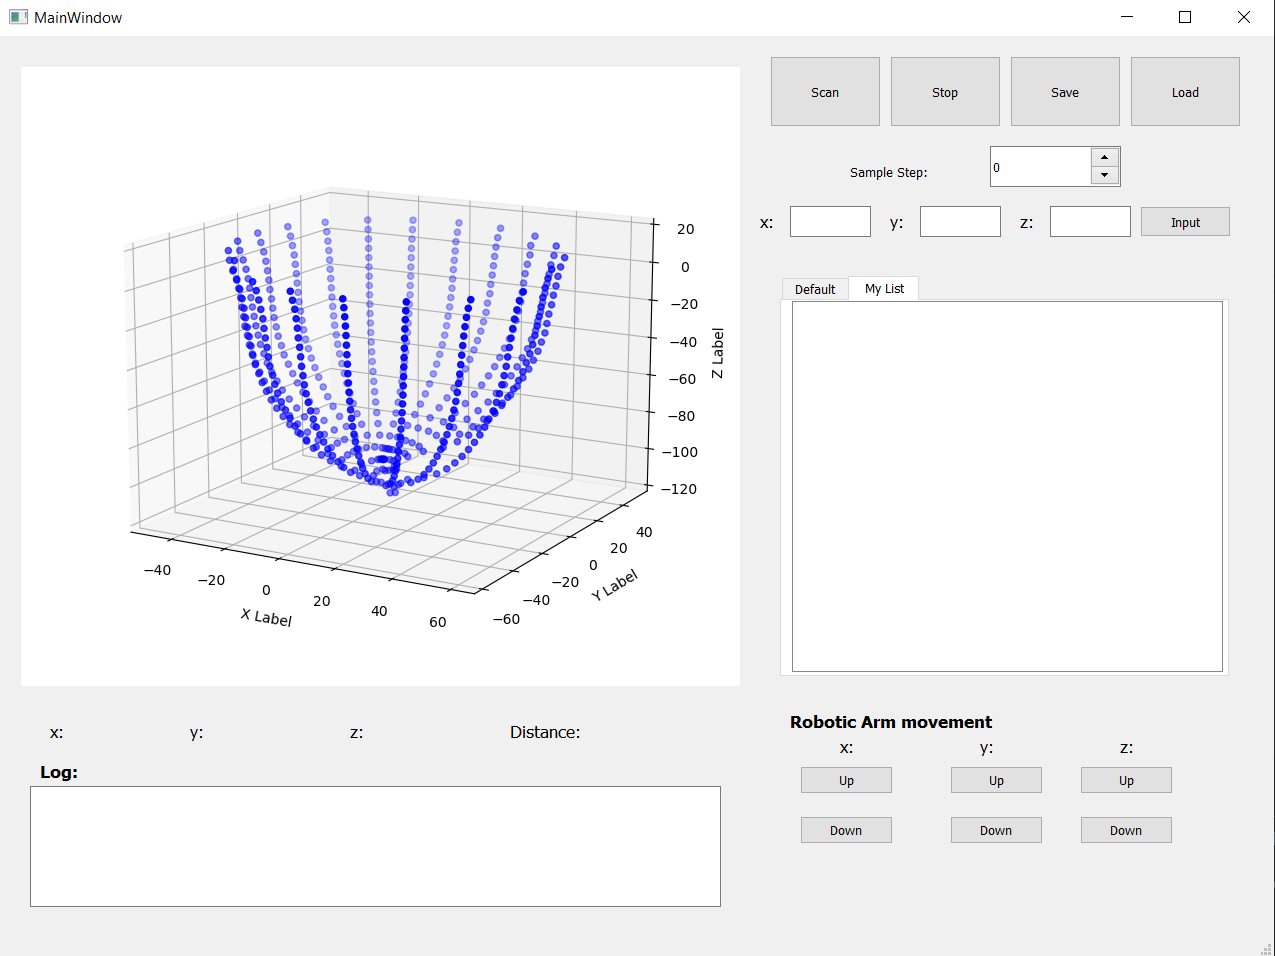
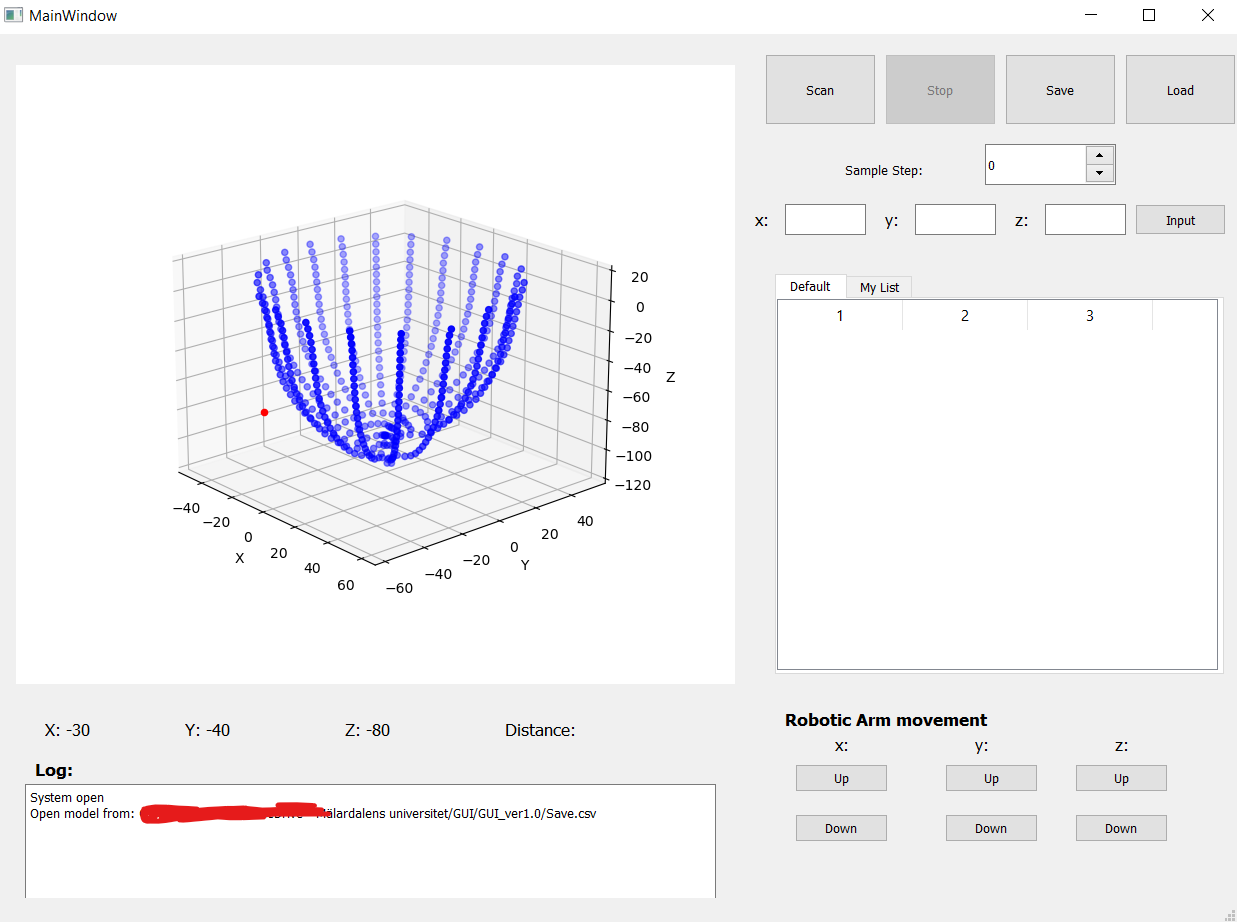
Update code

diff --git a/app.py b/app.py
@@ -1,23 +1,40 @@
 import sys
 from PyQt5.QtWidgets import QApplication, QMainWindow, QVBoxLayout, QWidget
 from matplotlib.backends.backend_qt5agg import FigureCanvasQTAgg as FigureCanvas
-from matplotlib.backends.backend_qt5agg import NavigationToolbar2QT as NavigationToolbar
+#from matplotlib.backends.backend_qt5agg import NavigationToolbar2QT as NavigationToolbar
 from matplotlib.figure import Figure
 import matplotlib.pyplot as plt
 import ScanningSystem
-from Button_LOAD import load_on_click
+from Button_LOAD import load_model
+from Button_SAVE import save_model_to_csv
 import pandas as pd
 import matplotlib.pyplot as plt
-from mpl_toolkits.mplot3d import Axes3D
+#from mpl_toolkits.mplot3d import Axes3D
+ 
+
+#global variables
+data = pd.DataFrame() #Global variable for store the data
+laser_x = 0 #laser position x
+laser_y = 0 #laser position y
+laser_z = 0 #laser position z
 
 
 class AppWindow(QMainWindow):
+    
     def __init__(self):
         super().__init__()
         self.ui = ScanningSystem.Ui_MainWindow()
         self.ui.setupUi(self)
-        #button functions
+
+        #button functions 
         self.ui.btn_Load.pressed.connect(self.loadFile)
+        self.ui.btn_Save.pressed.connect(self.saveFile)
+        self.ui.btn_xUp.pressed.connect(self.MoveRobotArm_XUp)
+        self.ui.btn_xDown.pressed.connect(self.MoveRobotArm_XDown)
+        self.ui.btn_yUp.pressed.connect(self.MoveRobotArm_YUp)
+        self.ui.btn_yDown.pressed.connect(self.MoveRobotArm_YDown)
+        self.ui.btn_zUp.pressed.connect(self.MoveRobotArm_ZUp)
+        self.ui.btn_zDown.pressed.connect(self.MoveRobotArm_ZDown)
 
         # Create a layout for the plot viwer
         layout = QVBoxLayout(self.ui.viewer_3d)
@@ -26,22 +43,31 @@ class AppWindow(QMainWindow):
         self.figure = plt.figure(figsize=(700,700))
         self.canvas = FigureCanvas(self.figure)
         layout.addWidget(self.canvas)
-        self.ax = self.figure.add_subplot(111, projection='3d')
+        self.ax= self.figure.add_subplot(111, projection='3d')
 
         # Set axis labels
-        self.ax.set_xlabel('X Label')
-        self.ax.set_ylabel('Y Label')
-        self.ax.set_zlabel('Z Label')
+        self.ax.set_xlabel('X')
+        self.ax.set_ylabel('Y')
+        self.ax.set_zlabel('Z')
 
-        # Limit the rotation by adjusting the elevation and azimuth angles
-        self.ax.dist = 8  # Adjust the distance from the plot
+        #laser position
+        self.laserPos(self.ax, self.ui.label_x_RobPos,self.ui.label_y_RobPos, self.ui.label_z_RobPos)
 
+        #print message in the text browser
+        self.printLog(self.ui.tbx_log, "System open")
+
+
+    #function load file
     def loadFile(self):
-        file_path = load_on_click()
-        print(f"Selected file: {file_path}")
-
+        file_path = load_model()
+  
         if(file_path != None):
+            #print the message in the text browser
+            message = f"Open model from: {file_path}"
+            self.printLog(self.ui.tbx_log, message)
+           
             # Read data from CSV file
+            global data
             data = pd.read_csv(file_path)
 
             # Extract X, Y, and Z coordinates from the CSV columns
@@ -52,6 +78,94 @@ class AppWindow(QMainWindow):
             # Create a 3D scatter plot
             self.ax.scatter(x, y, z, c='b', marker='o')
             self.canvas.draw()
+
+            #Open the Save option
+            self.ui.btn_Save.setEnabled(True)
+        else:
+            message = "None file selected"
+            self.printLog(self.ui.tbx_log, message)
+
+
+    #funciton: save file 
+    def saveFile(self):
+        global data
+        file_path = save_model_to_csv(data)
+        if(file_path != None):
+            message = f"Model saved to: {file_path}"
+            self.printLog(self.ui.tbx_log, message)
+        else:
+            message = "Saving cancel"
+            self.printLog(self.ui.tbx_log, message)
+
+
+    #function: print message in the text browser
+    def printLog(self, txt_box, message):
+        txt_box.append(message)
+
+    
+    #function: laser position
+    def laserPos(self, self_redpoint, label_x, label_y, label_z):
+        global laser_x
+        global laser_y
+        global laser_z
+
+        self_redpoint.scatter(laser_x, laser_y, laser_z, color='red', marker='o')
+        label_x.setText(f"X: {laser_x}")
+        label_y.setText(f"Y: {laser_y}")
+        label_z.setText(f"Z: {laser_z}")
+
+    #functions: move robot arm position
+    def MoveRobotArm_XUp(self):
+        global laser_x
+        laser_x = laser_x + 10
+        self.updatePlot()
+
+    def MoveRobotArm_YUp(self):
+        global laser_y
+        laser_y = laser_y + 10
+        self.updatePlot()
+
+    def MoveRobotArm_ZUp(self):
+        global laser_z
+        laser_z = laser_z + 10
+        self.updatePlot()
+
+    def MoveRobotArm_XDown(self):
+        global laser_x
+        laser_x = laser_x - 10
+        self.updatePlot()
+    
+    def MoveRobotArm_YDown(self):
+        global laser_y
+        laser_y = laser_y - 10
+        self.updatePlot()
+
+    def MoveRobotArm_ZDown(self):
+        global laser_z
+        laser_z = laser_z - 10
+        self.updatePlot()
+
+    #function: update the plot
+    def updatePlot(self):
+        self.ax.cla()
+
+        # Set axis labels
+        self.ax.set_xlabel('X')
+        self.ax.set_ylabel('Y')
+        self.ax.set_zlabel('Z')
+
+        self.laserPos(self.ax, self.ui.label_x_RobPos,self.ui.label_y_RobPos, self.ui.label_z_RobPos)
+
+        if data.empty != True:
+            # Extract X, Y, and Z coordinates from the CSV columns
+            x = data['X_value']  # Replace 'X_column_name' with the actual column name for X coordinates
+            y = data['Y_value']  # Replace 'Y_column_name' with the actual column name for Y coordinates
+            z = data['Z_value']  # Replace 'Z_column_name' with the actual column name for Z coordinates
+
+            # Create a 3D scatter plot
+            self.ax.scatter(x, y, z, c='b', marker='o')
+
+        self.canvas.draw()
 
 
 app = QApplication(sys.argv)

diff --git a/ScanningSystem.py b/ScanningSystem.py
@@ -14,6 +14,7 @@ from PyQt5 import QtCore, QtGui, QtWidgets
 class Ui_MainWindow(object):
     def setupUi(self, MainWindow):
         MainWindow.setObjectName("MainWindow")
+        MainWindow.setEnabled(True)
         MainWindow.resize(1243, 889)
         self.centralwidget = QtWidgets.QWidget(MainWindow)
         self.centralwidget.setObjectName("centralwidget")
@@ -56,12 +57,13 @@ class Ui_MainWindow(object):
         self.ted_x = QtWidgets.QTextEdit(self.centralwidget)
         self.ted_x.setGeometry(QtCore.QRect(790, 170, 81, 31))
         self.ted_x.setObjectName("ted_x")
-        self.btnScan = QtWidgets.QPushButton(self.centralwidget)
-        self.btnScan.setGeometry(QtCore.QRect(770, 20, 111, 71))
-        self.btnScan.setObjectName("btnScan")
-        self.btnSave = QtWidgets.QPushButton(self.centralwidget)
-        self.btnSave.setGeometry(QtCore.QRect(1010, 20, 111, 71))
-        self.btnSave.setObjectName("btnSave")
+        self.btn_Scan = QtWidgets.QPushButton(self.centralwidget)
+        self.btn_Scan.setGeometry(QtCore.QRect(770, 20, 111, 71))
+        self.btn_Scan.setObjectName("btn_Scan")
+        self.btn_Save = QtWidgets.QPushButton(self.centralwidget)
+        self.btn_Save.setEnabled(False)
+        self.btn_Save.setGeometry(QtCore.QRect(1010, 20, 111, 71))
+        self.btn_Save.setObjectName("btn_Save")
         self.btn_Load = QtWidgets.QPushButton(self.centralwidget)
         self.btn_Load.setGeometry(QtCore.QRect(1130, 20, 111, 71))
         self.btn_Load.setObjectName("btn_Load")
@@ -92,24 +94,27 @@ class Ui_MainWindow(object):
         self.btn_input = QtWidgets.QPushButton(self.centralwidget)
         self.btn_input.setGeometry(QtCore.QRect(1140, 170, 91, 31))
         self.btn_input.setObjectName("btn_input")
-        self.btnStop = QtWidgets.QPushButton(self.centralwidget)
-        self.btnStop.setGeometry(QtCore.QRect(890, 20, 111, 71))
-        self.btnStop.setObjectName("btnStop")
+        self.btn_Stop = QtWidgets.QPushButton(self.centralwidget)
+        self.btn_Stop.setEnabled(False)
+        self.btn_Stop.setGeometry(QtCore.QRect(890, 20, 111, 71))
+        self.btn_Stop.setObjectName("btn_Stop")
         self.twg_table = QtWidgets.QTabWidget(self.centralwidget)
         self.twg_table.setGeometry(QtCore.QRect(780, 240, 451, 401))
         self.twg_table.setObjectName("twg_table")
         self.tab = QtWidgets.QWidget()
         self.tab.setObjectName("tab")
-        self.tbv_default = QtWidgets.QTableView(self.tab)
-        self.tbv_default.setGeometry(QtCore.QRect(0, 10, 441, 361))
-        self.tbv_default.setObjectName("tbv_default")
+        self.tbw_default = QtWidgets.QTableWidget(self.tab)
+        self.tbw_default.setGeometry(QtCore.QRect(0, 0, 441, 371))
+        self.tbw_default.setColumnCount(3)
+        self.tbw_default.setObjectName("tbw_default")
+        self.tbw_default.setRowCount(0)
         self.twg_table.addTab(self.tab, "")
         self.tab_2 = QtWidgets.QWidget()
         self.tab_2.setObjectName("tab_2")
         self.tbw_mylist = QtWidgets.QTableWidget(self.tab_2)
-        self.tbw_mylist.setGeometry(QtCore.QRect(10, 0, 431, 371))
+        self.tbw_mylist.setGeometry(QtCore.QRect(0, 0, 441, 371))
+        self.tbw_mylist.setColumnCount(3)
         self.tbw_mylist.setObjectName("tbw_mylist")
-        self.tbw_mylist.setColumnCount(0)
         self.tbw_mylist.setRowCount(0)
         self.twg_table.addTab(self.tab_2, "")
         self.label_robotMove = QtWidgets.QLabel(self.centralwidget)
@@ -171,7 +176,7 @@ class Ui_MainWindow(object):
         MainWindow.setStatusBar(self.statusbar)
 
         self.retranslateUi(MainWindow)
-        self.twg_table.setCurrentIndex(1)
+        self.twg_table.setCurrentIndex(0)
         QtCore.QMetaObject.connectSlotsByName(MainWindow)
 
     def retranslateUi(self, MainWindow):
@@ -182,14 +187,14 @@ class Ui_MainWindow(object):
         self.label_z_RobPos.setText(_translate("MainWindow", "z:"))
         self.label_dist_laser.setText(_translate("MainWindow", "Distance:"))
         self.label_Log.setText(_translate("MainWindow", "Log:"))
-        self.btnScan.setText(_translate("MainWindow", "Scan"))
-        self.btnSave.setText(_translate("MainWindow", "Save"))
+        self.btn_Scan.setText(_translate("MainWindow", "Scan"))
+        self.btn_Save.setText(_translate("MainWindow", "Save"))
         self.btn_Load.setText(_translate("MainWindow", "Load"))
         self.label_x.setText(_translate("MainWindow", "x:"))
         self.label_y.setText(_translate("MainWindow", "y:"))
         self.label_z.setText(_translate("MainWindow", "z:"))
         self.btn_input.setText(_translate("MainWindow", "Input"))
-        self.btnStop.setText(_translate("MainWindow", "Stop"))
+        self.btn_Stop.setText(_translate("MainWindow", "Stop"))
         self.twg_table.setTabText(self.twg_table.indexOf(self.tab), _translate("MainWindow", "Default"))
         self.twg_table.setTabText(self.twg_table.indexOf(self.tab_2), _translate("MainWindow", "My List"))
         self.label_robotMove.setText(_translate("MainWindow", "Robotic Arm movement"))

diff --git a/Button_LOAD.py b/Button_LOAD.py
@@ -1,12 +1,8 @@
-import tkinter as tk
+
 from tkinter import filedialog
 
 
-def load_on_click():
-    # Create a Tkinter root window (it won't be displayed)
-    root = tk.Tk()
-    root.withdraw()  # Hide the root window
-
+def load_model():
     # Open a file dialog window for selecting a file
     file_path = filedialog.askopenfilename(
         title="Select a File",
@@ -16,8 +12,4 @@ def load_on_click():
     # Check if a file was selected
     if file_path:
         return file_path
-    else:
-        print("No file selected")
 
-    # Close the Tkinter root window (optional)
-    root.destroy()

diff --git a/Button_SAVE.py b/Button_SAVE.py
@@ -1,0 +1,19 @@
+from tkinter import filedialog
+import pandas as pd
+
+# Create a function to save data to a CSV file
+def save_model_to_csv(data):
+    file_path = filedialog.asksaveasfilename(
+        defaultextension=".csv", 
+        filetypes=[("CSV Files", "*.csv")]
+    )
+
+    if file_path:
+        with open(file_path, 'w', newline='') as csvfile:
+            df = pd.DataFrame(data)
+
+            # Save the DataFrame to a CSV file
+            df.to_csv(csvfile, index=False)  # Specify index=False to avoid writing row numbers as a column
+
+        return file_path
+
